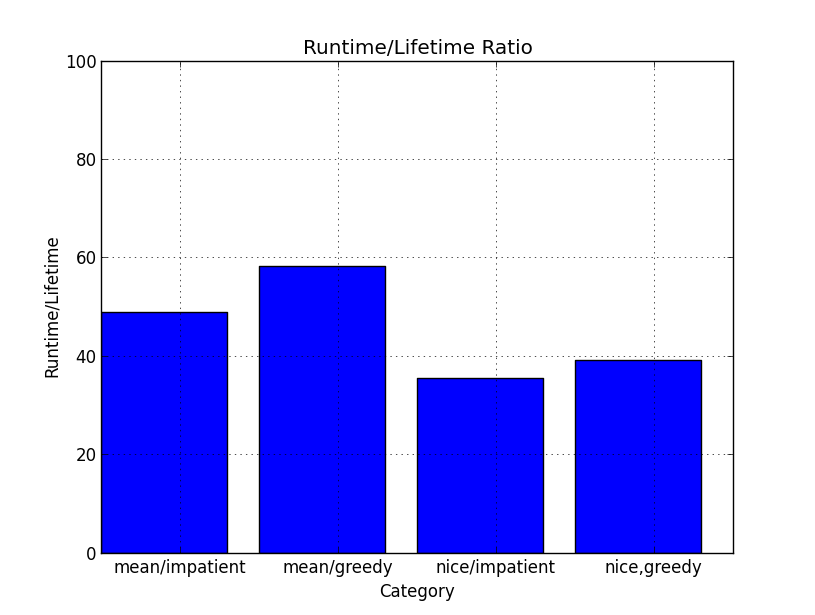
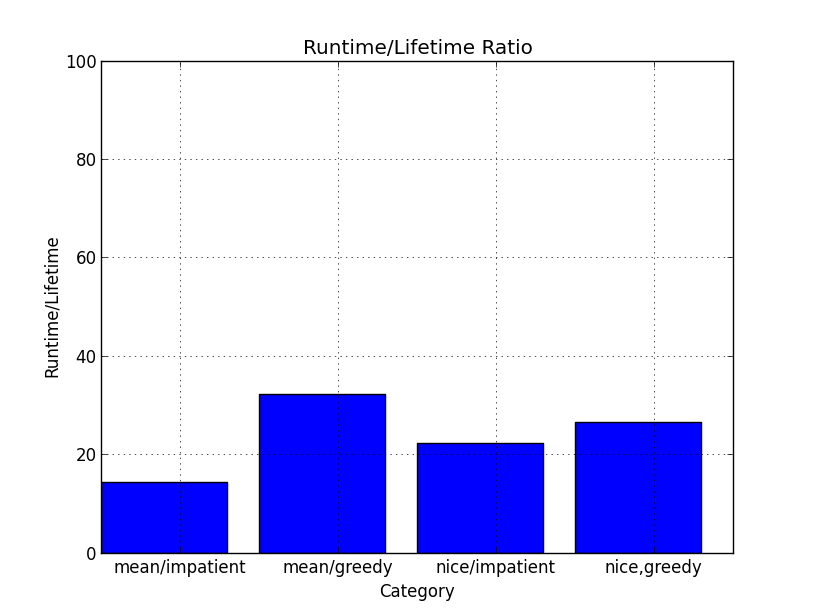
fixed analytics bug

Changed region(s): [[0.1227, 0.4325, 0.6748, 0.8033], [0.7055, 0.5561, 0.8896, 0.7106]]

diff --git a/dispatcher.py b/dispatcher.py
@@ -174,11 +174,16 @@ class Dispatcher(object):
 	 	print (means + nices)
 	 	print (impatients + greedies)
 	 	print (len(processes))
+	 	print("wtf")
+	 	print(throughput_greedy_nice + throughput_greedy_mean)
+	 	print(throughput_greedy)
+	 	print(throughput_impatient_nice + throughput_impatient_mean)
+	 	print(throughput_impatient)
 
 	 	wait_impatient = wait_impatient / impatients
 	 	wait_greedy = wait_greedy / greedies
 	 	throughput_impatient = throughput_impatient / impatients
-	 	thoughput_greedy = throughput_greedy / greedies
+	 	throughput_greedy = throughput_greedy / greedies
 
 	 	wait_impatient_nice = wait_impatient_nice / niceimpatient
 	 	wait_greedy_nice = wait_greedy_nice / nicegreedy
